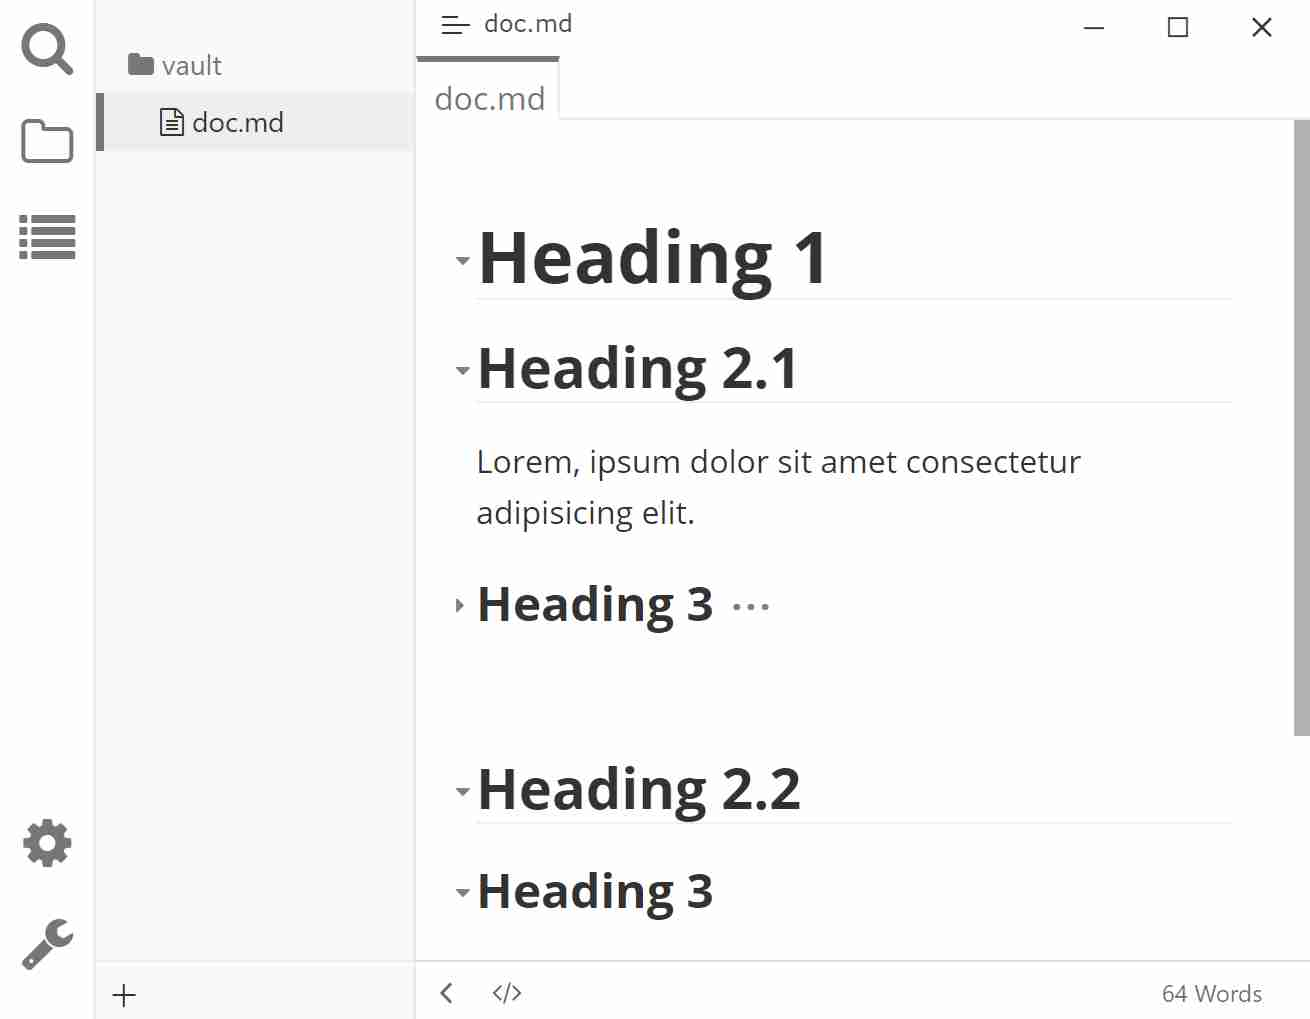
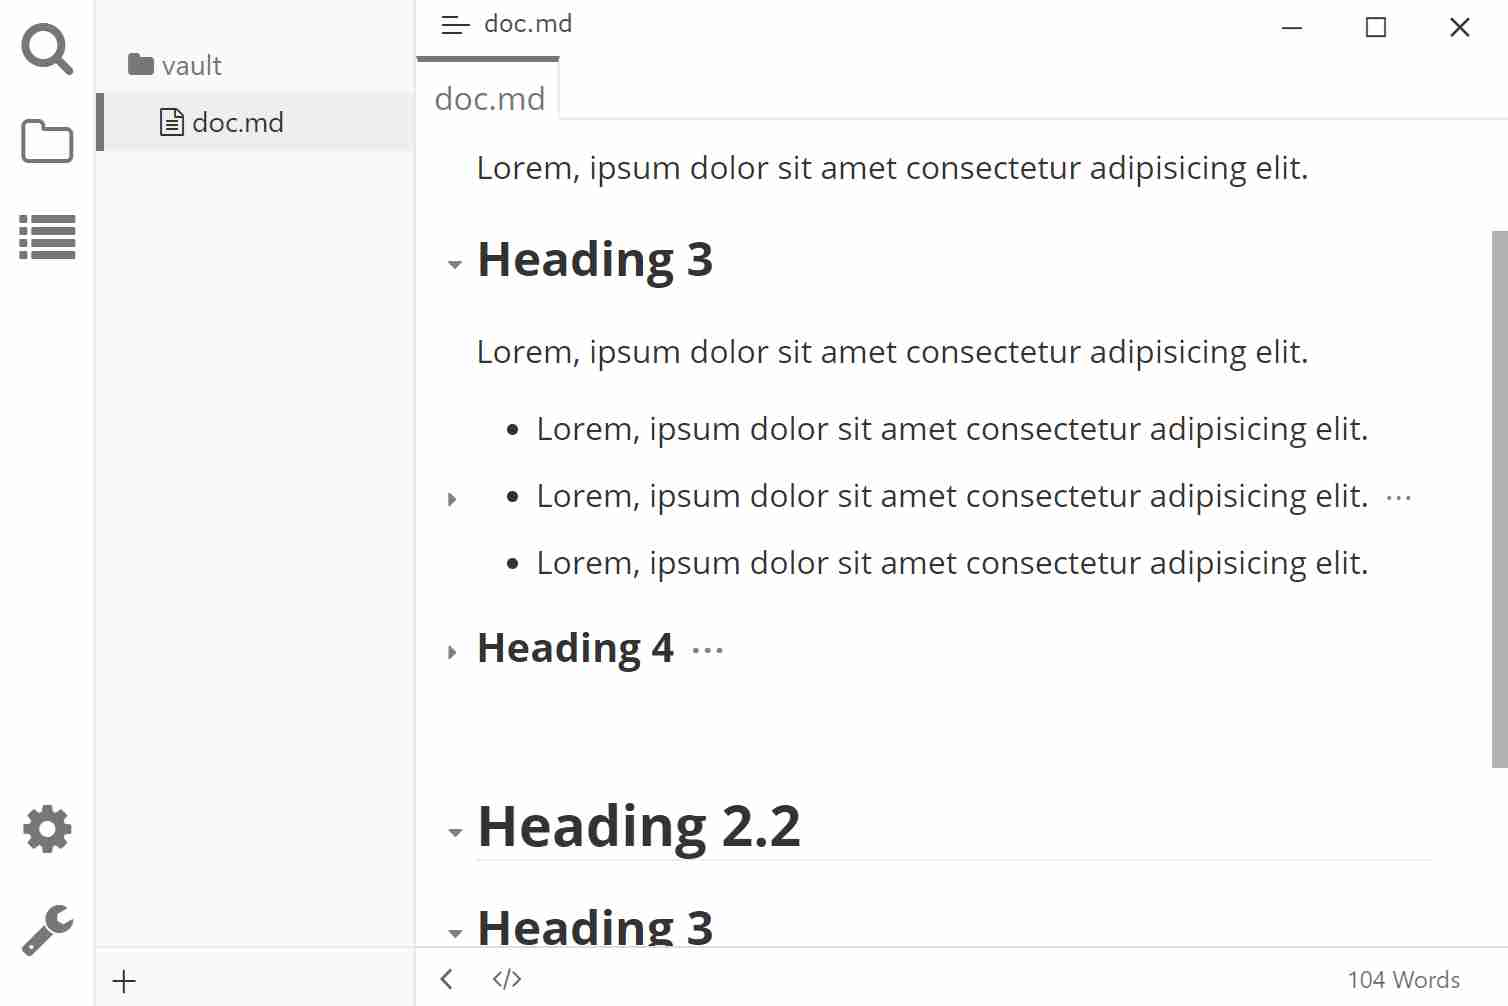
feat: support fold/unfold nested list

diff --git a/src/main.ts b/src/main.ts
@@ -23,7 +23,7 @@ export default class extends Plugin {
   onload() {
     this.registerMarkdownPostProcessor(
       HtmlPostProcessor.from({
-        selector: '.md-heading:not(:empty)',
+        selector: '.md-heading:not(:empty), .md-list-item>:first-child:not(:last-child)',
         process: makeCollapsible,
       }))
 
@@ -60,17 +60,17 @@ export default class extends Plugin {
   }
 }
 
-function makeCollapsible(heading: HTMLElement) {
-  if (heading.querySelector('.typ-collapsible-btn')) return
+function makeCollapsible(el: HTMLElement) {
+  if (el.querySelector('.typ-collapsible-btn')) return
 
-  const button = $(`<button class="typ-collapsible-btn" contenteditable="false"><span class="fa fa-caret-down"></span></button>`)
+  const button = $(`<button class="typ-collapsible-btn" contenteditable="false" style="left: ${10 - clientOffset(el)}px;"><span class="fa fa-caret-down"></span></button>`)
     .on('click', toggleIcon)
     .on('click', toggleCollapse)
-    .prependTo(heading)
+    .prependTo(el)
     .get(0)
 
-  if (heading.nextElementSibling?.classList.contains('typ-hidden')) {
-    heading.classList.add('typ-folded')
+  if (el.nextElementSibling?.classList.contains('typ-hidden')) {
+    el.classList.add('typ-folded')
     toggleIcon.apply(button)
   }
 }
@@ -124,4 +124,14 @@ function headingState(el: HTMLElement): HeadingState {
 
 function fold(el: HTMLElement, states: HeadingState[]) {
   el.classList.toggle('typ-hidden', states.some(s => s.isFolded))
+}
+
+function clientOffset(el: HTMLElement) {
+  let result = 0;
+  let parent = el;
+  while (parent != editor.writingArea) {
+    result += parent.offsetLeft;
+    parent = parent.offsetParent as HTMLElement;
+  }
+  return result;
 }

diff --git a/src/style.scss b/src/style.scss
@@ -5,7 +5,6 @@
 .typ-collapsible-btn {
   position: absolute;
   left: -16px;
-  bottom: 0;
   border: none;
   border-radius: 0.25em;
   color: gray;

diff --git a/test/vault/doc.md b/test/vault/doc.md
@@ -8,6 +8,13 @@ Lorem, ipsum dolor sit amet consectetur adipisicing elit.
 
 Lorem, ipsum dolor sit amet consectetur adipisicing elit.
 
+- Lorem, ipsum dolor sit amet consectetur adipisicing elit.
+- Lorem, ipsum dolor sit amet consectetur adipisicing elit.
+	- Lorem, ipsum dolor sit amet consectetur adipisicing elit.
+	- Lorem, ipsum dolor sit amet consectetur adipisicing elit.
+
+- Lorem, ipsum dolor sit amet consectetur adipisicing elit.
+
 #### Heading 4
 
 Lorem, ipsum dolor sit amet consectetur adipisicing elit.

diff --git a/README.md b/README.md
@@ -7,6 +7,7 @@ This a plugin based on [typora-community-plugin](https://github.com/typora-commu
 Fold/unfold markdown section:
 
 - [x] Heading
+- [x] Nested list
 
 ## Preview
 

diff --git a/README.zh-CN.md b/README.zh-CN.md
@@ -7,6 +7,7 @@
 折叠/展开 Markdown 章节:
 
 - [x] 根据标题折叠
+- [x] 嵌套列表折叠
 
 ## 预览
 
